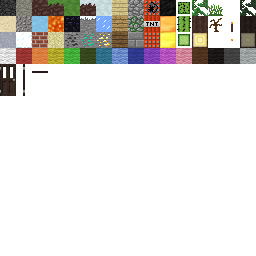
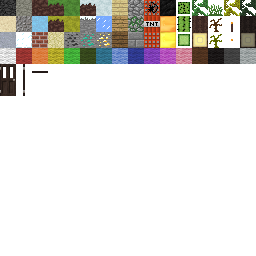
Carmine

Changed region(s): [[0.1875, 0.0625, 0.3125, 0.125], [0.875, 0.0, 0.9375, 0.0625], [0.8125, 0.125, 0.875, 0.1875]]

diff --git a/core/src/com/travall/game/world/World.java b/core/src/com/travall/game/world/World.java
@@ -48,7 +48,7 @@ public final class World implements Disposable {
 
 	final ChunkMesh[][][] opaqueChunkMeshes;
 	final ChunkMesh[][][] transparentChunkMeshes;
-	Biome[] biomes = {new Desert(), new Ground(), new Snow()};
+	Biome[] biomes = {new Desert(), new Ground(), new Carmine()};
 	Vector3 tempVec = new Vector3();
 	Vector2 tempVec2 = new Vector2();
 
@@ -215,10 +215,11 @@ public final class World implements Disposable {
 				// Foliage
 				for(int j = mapHeight; j > 0; j--) {
 					if(!isAirBlock(x,j,z)) {
-						if(getBlock(blockPos.set(x,j,z)) == BlocksList.GRASS || getBlock(blockPos.set(x,j,z)) == BlocksList.SNOW) {
+						if(getBlock(blockPos.set(x,j,z)) == BlocksList.GRASS || getBlock(blockPos.set(x,j,z)) == BlocksList.CARMINE) {
 
-							if(random.nextInt(10) == 1 && getBlock(blockPos.set(x,j,z)) != BlocksList.SNOW) {
-								setBlock(x,j+1,z,BlocksList.TALLGRASS);
+							if(random.nextInt(10) == 1) {
+								if(getBlock(blockPos.set(x,j,z)) == BlocksList.GRASS) setBlock(x,j+1,z,BlocksList.TALLGRASS);
+								if(getBlock(blockPos.set(x,j,z)) == BlocksList.CARMINE) setBlock(x,j+1,z,BlocksList.DARKSHRUB);
 							}
 
 							boolean open = isAirBlock(x,j + 1,z) && isAirBlock(x,j + 2,z) && isAirBlock(x,j + 3,z);

diff --git a/core/src/com/travall/game/blocks/Carmine.java b/core/src/com/travall/game/blocks/Carmine.java
@@ -5,11 +5,11 @@ import com.travall.game.blocks.models.CubeModel;
 import com.travall.game.renderer.block.BlockTextures;
 import com.travall.game.renderer.block.UltimateTexture;
 
-public class Snow extends Block {
+public class Carmine extends Block {
 
-	public Snow(int blockID) {
+	public Carmine(int blockID) {
 		super(blockID);
-		this.model = new CubeModel(this, new BlockTextures(UltimateTexture.createRegion(6, 0), UltimateTexture.createRegion(5, 0), UltimateTexture.createRegion(2, 0)));
+		this.model = new CubeModel(this, new BlockTextures(UltimateTexture.createRegion(4, 1), UltimateTexture.createRegion(3, 1), UltimateTexture.createRegion(2, 0)));
 		this.material = Material.BLOCK;
 	}
 }

diff --git a/core/src/com/travall/game/blocks/BlocksList.java b/core/src/com/travall/game/blocks/BlocksList.java
@@ -22,10 +22,11 @@ public final class BlocksList {
 	TALLGRASS = new TallGrass(ID++),
 	SHRUB = new Shrub(ID++),
 	TORCH = new Torch(ID++),
-	SNOW = new Snow(ID++),
+	CARMINE = new Carmine(ID++),
 	DARKLOG = new DarkLog(ID++),
 	DARKLEAVES = new DarkLeaves(ID++),
-	DOOR = new Door(ID++);
+	DOOR = new Door(ID++),
+	DARKSHRUB = new DarkShrub(ID++);
 
 
 	public static final int SIZE = ID;
@@ -49,10 +50,11 @@ public final class BlocksList {
 		addBlock(TALLGRASS);
 		addBlock(SHRUB);
 		addBlock(TORCH);
-		addBlock(SNOW);
+		addBlock(CARMINE);
 		addBlock(DARKLOG);
 		addBlock(DARKLEAVES);
 		addBlock(DOOR);
+		addBlock(DARKSHRUB);
 
 		hasInts = true;
 	}

diff --git a/core/src/com/travall/game/blocks/DarkShrub.java b/core/src/com/travall/game/blocks/DarkShrub.java
@@ -1,0 +1,16 @@
+package com.travall.game.blocks;
+
+import com.badlogic.gdx.math.collision.BoundingBox;
+import com.travall.game.blocks.materials.Material;
+import com.travall.game.blocks.models.DiagonalModel;
+import com.travall.game.renderer.block.UltimateTexture;
+
+public class DarkShrub extends Block {
+
+	public DarkShrub(int blockID) {
+		super(blockID);
+		this.model = new DiagonalModel(this, UltimateTexture.createRegion(13, 2));
+		this.boundingBoxes.add(new BoundingBox(MIN.setZero(), MAX.set(1, 1, 1)));
+		this.material = Material.DIAGONAL;
+	}
+}

diff --git a/core/src/com/travall/game/world/biomes/Carmine.java b/core/src/com/travall/game/world/biomes/Carmine.java
@@ -2,13 +2,13 @@ package com.travall.game.world.biomes;
 
 import com.travall.game.blocks.BlocksList;
 
-public class Snow extends Biome {
-	public Snow() {
-		this.name = "Snow";
+public class Carmine extends Biome {
+	public Carmine() {
+		this.name = "Carmine";
 		this.heightOctaves = 8;
 		this.heightPersistence = 0.4f;
-		this.heightModifier = 1.5f;
-		this.top = BlocksList.SNOW;
+		this.heightModifier = 1f;
+		this.top = BlocksList.CARMINE;
 		this.middle = BlocksList.DIRT;
 		this.underwater = BlocksList.DIRT;
 	}

diff --git a/core/src/com/travall/game/blocks/DarkLeaves.java b/core/src/com/travall/game/blocks/DarkLeaves.java
@@ -12,7 +12,7 @@ public class DarkLeaves extends Block {
 
 	public DarkLeaves(int blockID) {
 		super(blockID);
-		this.model = new CubeModel(this, new BlockTextures(UltimateTexture.createRegion(15, 0)));
+		this.model = new CubeModel(this, new BlockTextures(UltimateTexture.createRegion(14, 0)));
 		this.material = Material.LEAVES;
 	}
 	
